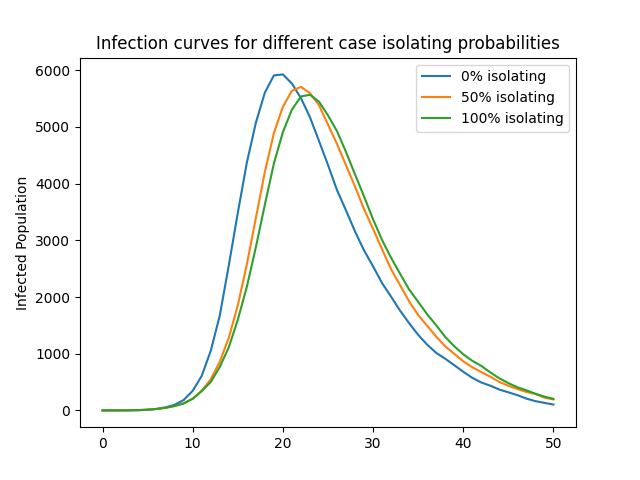
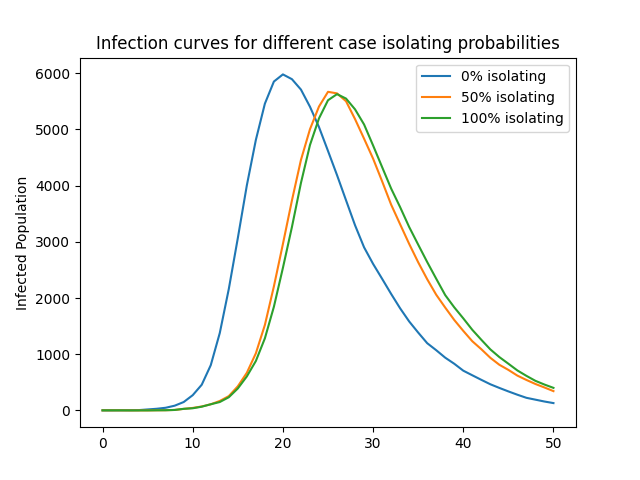
extend to multiple interventions, major change in intervention_sweep.py, but changes a batch of tests. unit tests pass but all functional tests fail, will fix later. two case isolation with different starting time is updated, other interventions will run later.

diff --git a/pyEpiabm/pyEpiabm/sweep/intervention_sweep.py b/pyEpiabm/pyEpiabm/sweep/intervention_sweep.py
@@ -1,6 +1,7 @@
 #
 # Sweeps for taking care of the interventions
 #
+from bidict import bidict
 
 from pyEpiabm.core import Parameters
 from pyEpiabm.intervention import CaseIsolation, Vaccination, PlaceClosure
@@ -36,22 +37,28 @@ class InterventionSweep(AbstractSweep):
         """
         # Implemented interventions and their activity status
         self.intervention_active_status = {}
-        self.intervention_params = Parameters.instance().intervention_params
+        self.intervention_params = Parameters.instance().\
+            intervention_params.copy()
+        self.intervention_dict = bidict(
+            {'case_isolation': CaseIsolation, 'place_closure': PlaceClosure,
+             'household_quarantine': HouseholdQuarantine,
+             'social_distancing': SocialDistancing,
+             'disease_testing': DiseaseTesting,
+             'vaccine_params': Vaccination,
+             'travel_isolation': TravelIsolation})
 
     def bind_population(self, population):
         self._population = population
-        intervention_dict = {'case_isolation': CaseIsolation,
-                             'place_closure': PlaceClosure,
-                             'household_quarantine': HouseholdQuarantine,
-                             'social_distancing': SocialDistancing,
-                             'disease_testing': DiseaseTesting,
-                             'vaccine_params': Vaccination,
-                             'travel_isolation': TravelIsolation}
-
         for intervention in self.intervention_params.keys():
-            params = self.intervention_params[intervention]
-            self.intervention_active_status[(intervention_dict[intervention](
-                population=self._population, **params))] = False
+            for index in range(len(self.intervention_params[intervention])):
+                params = self.intervention_params[intervention][index]
+                intervention_init = self.intervention_dict[intervention](
+                        population=self._population, **params)
+                intervention_init.occurrence_index = index
+                self.intervention_active_status[intervention_init] = False
+                if index == 0:
+                    Parameters.instance().intervention_params[
+                        intervention] = params
 
     def __call__(self, time):
         """Perform interventions that should take place.
@@ -72,9 +79,16 @@ class InterventionSweep(AbstractSweep):
             num_cases = sum(map(lambda cell: cell.number_infectious(),
                             self._population.cells))
             if intervention.is_active(time, num_cases):
-                intervention(time)
                 if self.intervention_active_status[intervention] is False:
+                    # Update with the single intervention
+                    # (with respect to index)
+                    intervention_type = self.intervention_dict.inverse[
+                        type(intervention)]
+                    Parameters.instance().intervention_params[
+                        intervention_type] = self.intervention_params[
+                            intervention_type][intervention.occurrence_index]
                     self.intervention_active_status[intervention] = True
+                intervention(time)
 
             elif self.intervention_active_status[intervention] is True:
                 # turn off intervention

diff --git a/pyEpiabm/pyEpiabm/tests/test_unit/test_sweep/test_intervention_sweep.py b/pyEpiabm/pyEpiabm/tests/test_unit/test_sweep/test_intervention_sweep.py
@@ -32,19 +32,20 @@ class TestInterventionSweep(TestPyEpiabm):
 
     def test_bind_population(self):
         self.assertEqual(len(self.interventionsweep.
-                             intervention_params['case_isolation']), 9)
+                             intervention_params['case_isolation'][0]), 9)
         self.assertEqual(len(self.interventionsweep.
-                             intervention_params['vaccine_params']), 9)
+                             intervention_params['vaccine_params'][0]), 9)
         self.assertEqual(len(self.interventionsweep.
-                             intervention_params['place_closure']), 9)
+                             intervention_params['place_closure'][0]), 9)
         self.assertEqual(len(self.interventionsweep.
-                             intervention_params['household_quarantine']), 10)
+                             intervention_params['household_quarantine'][0]),
+                         10)
         self.assertEqual(len(self.interventionsweep.
-                             intervention_params['social_distancing']), 13)
+                             intervention_params['social_distancing'][0]), 13)
         self.assertEqual(len(self.interventionsweep.
-                             intervention_params['disease_testing']), 10)
+                             intervention_params['disease_testing'][0]), 10)
         self.assertEqual(len(self.interventionsweep.
-                             intervention_params['travel_isolation']), 10)
+                             intervention_params['travel_isolation'][0]), 10)
         self.assertEqual(len(
             self.interventionsweep.intervention_active_status.keys()), 7)
 
@@ -90,18 +91,10 @@ class TestInterventionSweep(TestPyEpiabm):
 
         # Infector in case isolation, infectee in quarantine as
         # isolation_start_time = 100 as evaluated at this time (see above)
-        self.interventionsweep.intervention_params['case_isolation'][
-            'isolation_probability'] = 1.0
-        self.interventionsweep.intervention_params['household_quarantine'][
-            'quarantine_house_compliant'] = 1.0
-        self.interventionsweep.intervention_params['household_quarantine'][
-            'quarantine_individual_compliant'] = 1.0
         self.assertEqual(self.person_symp.isolation_start_time, 10)
         self.assertIsNotNone(self.person_susc.quarantine_start_time)
 
         # Stop isolating after start_time + policy_duration
-        self.interventionsweep.intervention_params['case_isolation'][
-            'policy_duration'] = 365
         self.person_symp.isolation_start_time = 370
         self.interventionsweep(time=370)
         self.assertEqual(self.person_symp.isolation_start_time, 370)

diff --git a/pyEpiabm/pyEpiabm/tests/test_unit/test_intervention/test_social_distancing.py b/pyEpiabm/pyEpiabm/tests/test_unit/test_intervention/test_social_distancing.py
@@ -25,29 +25,27 @@ class TestSocialDistancing(TestPyEpiabm):
         cls.person = cls.microcell.persons[0]
         cls.person.update_status(InfectionStatus(7))
 
-        params = pe.Parameters.instance().intervention_params[
-            'social_distancing']
+        cls.params = pe.Parameters.instance().intervention_params[
+            'social_distancing'][0]
         cls.socialdistancing = SocialDistancing(population=cls._population,
-                                                **params)
+                                                **cls.params)
 
     def test__init__(self):
         # Test the parameter values from params file (testing_parameters.json)
-        params = pe.Parameters.instance().intervention_params[
-                'social_distancing']
         self.assertEqual(self.socialdistancing.start_time,
-                         params['start_time'])
+                         self.params['start_time'])
         self.assertEqual(self.socialdistancing.policy_duration,
-                         params['policy_duration'])
+                         self.params['policy_duration'])
         self.assertEqual(self.socialdistancing.case_threshold,
-                         params['case_threshold'])
+                         self.params['case_threshold'])
         self.assertEqual(self.socialdistancing.distancing_delay,
-                         params['distancing_delay'])
+                         self.params['distancing_delay'])
         self.assertEqual(self.socialdistancing.distancing_duration,
-                         params['distancing_duration'])
+                         self.params['distancing_duration'])
         self.assertEqual(self.socialdistancing.case_microcell_threshold,
-                         params['case_microcell_threshold'])
+                         self.params['case_microcell_threshold'])
         self.assertEqual(self.socialdistancing.distancing_enhanced_prob,
-                         params['distancing_enhanced_prob'])
+                         self.params['distancing_enhanced_prob'])
 
     def test___call__(self):
         # Social distancing haven't start

diff --git a/pyEpiabm/pyEpiabm/tests/test_unit/test_sweep/test_initial_vaccine_sweep.py b/pyEpiabm/pyEpiabm/tests/test_unit/test_sweep/test_initial_vaccine_sweep.py
@@ -24,11 +24,15 @@ class TestVaccinationSweep(TestPyEpiabm):
         self.person_list = []
         for i in range(6):
             self.person_list.append(self.microcell.persons[i])
+        if isinstance(pe.Parameters.instance().
+                      intervention_params['vaccine_params'], list):
+            pe.Parameters.instance().intervention_params['vaccine_params'] = \
+                pe.Parameters.instance().intervention_params[
+                    'vaccine_params'][0]
 
     def test_priority_group(self):
         test_sweep = pe.sweep.InitialVaccineQueue()
         test_sweep.bind_population(self.test_population)
-        params = pe.Parameters.instance().intervention_params['vaccine_params']
 
         age_list = [90, 70, 55, 30, 15, 80]
         for i in range(len(self.person_list)):
@@ -38,7 +42,9 @@ class TestVaccinationSweep(TestPyEpiabm):
 
         priority_list = []
         for per in self.person_list:
-            level = test_sweep.assign_priority_group(per, params['min_ages'])
+            level = test_sweep.assign_priority_group(
+                per, pe.Parameters.instance().
+                intervention_params['vaccine_params']['min_ages'])
             priority_list.append(level)
 
         self.assertEqual(priority_list[0], 1)

diff --git a/python_examples/intervention_example/case_isolation_simulation_flow.py b/python_examples/intervention_example/case_isolation_simulation_flow.py
@@ -32,15 +32,20 @@ pe.Parameters.set_file(os.path.join(os.path.dirname(__file__),
 # Parameter to change
 to_modify_parameter = 'isolation_probability'
 parameter_values = [0.0, 0.5, 1.0]
+intervention_param = pe.Parameters.instance().\
+    intervention_params['case_isolation'].copy()
 
 for i in range(len(parameter_values)):
     name_output_file = 'output_{}_{}.csv'.format(
         int(parameter_values[i]*100), to_modify_parameter)
 
-    pe.Parameters.instance().intervention_params['case_isolation'][
-        to_modify_parameter] = parameter_values[i]
+    pe.Parameters.instance().intervention_params[
+        'case_isolation'] = intervention_param
+    for intervention in pe.Parameters.instance().\
+            intervention_params['case_isolation']:
+        intervention[to_modify_parameter] = parameter_values[i]
     print('Set isolation_probability to: {}'.format(
-        pe.Parameters.instance().intervention_params['case_isolation'][
+        pe.Parameters.instance().intervention_params['case_isolation'][0][
             to_modify_parameter]))
 
     # Method to set the seed at the start of the simulation,

diff --git a/pyEpiabm/pyEpiabm/tests/test_unit/test_intervention/test_vaccination.py b/pyEpiabm/pyEpiabm/tests/test_unit/test_intervention/test_vaccination.py
@@ -17,6 +17,11 @@ class TestVaccination(TestPyEpiabm):
         self._population.add_cells(1)
         self._population.cells[0].add_microcells(1)
         self._population.cells[0].microcells[0].add_people(5)
+        if isinstance(pe.Parameters.instance().
+                      intervention_params['vaccine_params'], list):
+            pe.Parameters.instance().intervention_params['vaccine_params'] = \
+                pe.Parameters.instance().intervention_params[
+                    'vaccine_params'][0]
         self.params = pe.Parameters.instance().\
             intervention_params['vaccine_params']
         self.vaccination = Vaccination(**self.params,

diff --git a/pyEpiabm/pyEpiabm/tests/test_unit/test_property/test_household_foi.py b/pyEpiabm/pyEpiabm/tests/test_unit/test_property/test_household_foi.py
@@ -29,6 +29,12 @@ class TestHouseholdInfection(TestPyEpiabm):
         self.infectee = self._population.cells[0].microcells[0].persons[1]
         self.infector.infectiousness = 1.0
 
+        for key in pe.Parameters.instance().intervention_params.keys():
+            if isinstance(pe.Parameters.instance().
+                          intervention_params[key], list):
+                pe.Parameters.instance().intervention_params[key] = \
+                    pe.Parameters.instance().intervention_params[key][0]
+
     def test_house_inf(self):
         result = HouseholdInfection.household_inf(self.infector, self.time)
         self.assertEqual(result, 1)

diff --git a/pyEpiabm/pyEpiabm/tests/test_unit/test_property/test_place_foi.py b/pyEpiabm/pyEpiabm/tests/test_unit/test_property/test_place_foi.py
@@ -29,6 +29,12 @@ class TestPlaceInfection(TestPyEpiabm):
         cls.place.add_person(cls.infectee)
         cls.time = 1.0
 
+        for key in pe.Parameters.instance().intervention_params.keys():
+            if isinstance(pe.Parameters.instance().
+                          intervention_params[key], list):
+                pe.Parameters.instance().intervention_params[key] = \
+                    pe.Parameters.instance().intervention_params[key][0]
+
     def test_place_susc(self):
         result = PlaceInfection.place_susc(self.place, self.infector,
                                            self.infectee, self.time)

diff --git a/pyEpiabm/pyEpiabm/tests/test_unit/test_property/test_spatial_foi.py b/pyEpiabm/pyEpiabm/tests/test_unit/test_property/test_spatial_foi.py
@@ -33,6 +33,12 @@ class TestSpatialInfection(TestPyEpiabm):
         self.time = 1.0
         pe.Parameters.instance().basic_reproduction_num = 2.8
 
+        for key in pe.Parameters.instance().intervention_params.keys():
+            if isinstance(pe.Parameters.instance().
+                          intervention_params[key], list):
+                pe.Parameters.instance().intervention_params[key] = \
+                    pe.Parameters.instance().intervention_params[key][0]
+
     def test_spatial_susc(self):
         result = SpatialInfection.spatial_susc(
             self.cell, self.infector, self.infectee, self.time)

diff --git a/pyEpiabm/pyEpiabm/tests/test_unit/test_sweep/test_host_progression_sweep.py b/pyEpiabm/pyEpiabm/tests/test_unit/test_sweep/test_host_progression_sweep.py
@@ -76,6 +76,12 @@ class TestHostProgressionSweep(TestPyEpiabm):
             person.update_status(InfectionStatus(i + 1))
             self.people.append(person)
 
+        if isinstance(pe.Parameters.instance().
+                      intervention_params['disease_testing'], list):
+            pe.Parameters.instance().intervention_params['disease_testing'] = \
+                pe.Parameters.instance().intervention_params[
+                    'disease_testing'][0]
+
     def test_construct(self):
         """Tests that the host progression sweep initialises correctly.
         """

diff --git a/pyEpiabm/pyEpiabm/tests/test_unit/test_sweep/test_queue_sweep.py b/pyEpiabm/pyEpiabm/tests/test_unit/test_sweep/test_queue_sweep.py
@@ -24,6 +24,12 @@ class TestQueueSweep(TestPyEpiabm):
 
         self.time = 1
 
+        if isinstance(pe.Parameters.instance().
+                      intervention_params['vaccine_params'], list):
+            pe.Parameters.instance().intervention_params['vaccine_params'] = \
+                pe.Parameters.instance().intervention_params[
+                    'vaccine_params'][0]
+
     def test_bind(self):
         """Test population binds correctly.
         """

diff --git a/pyEpiabm/pyEpiabm/tests/test_unit/test_core/test_person.py b/pyEpiabm/pyEpiabm/tests/test_unit/test_core/test_person.py
@@ -93,7 +93,7 @@ class TestPerson(TestPyEpiabm):
 
     def test_is_place_closed(self):
         closure_place_type = pe.Parameters.instance().intervention_params[
-            'place_closure']['closure_place_type']
+            'place_closure'][0]['closure_place_type']
         # Not in place closure
         self.assertFalse(hasattr(self.person.microcell, 'closure_start_time'))
         self.assertFalse(self.person.is_place_closed(closure_place_type))
